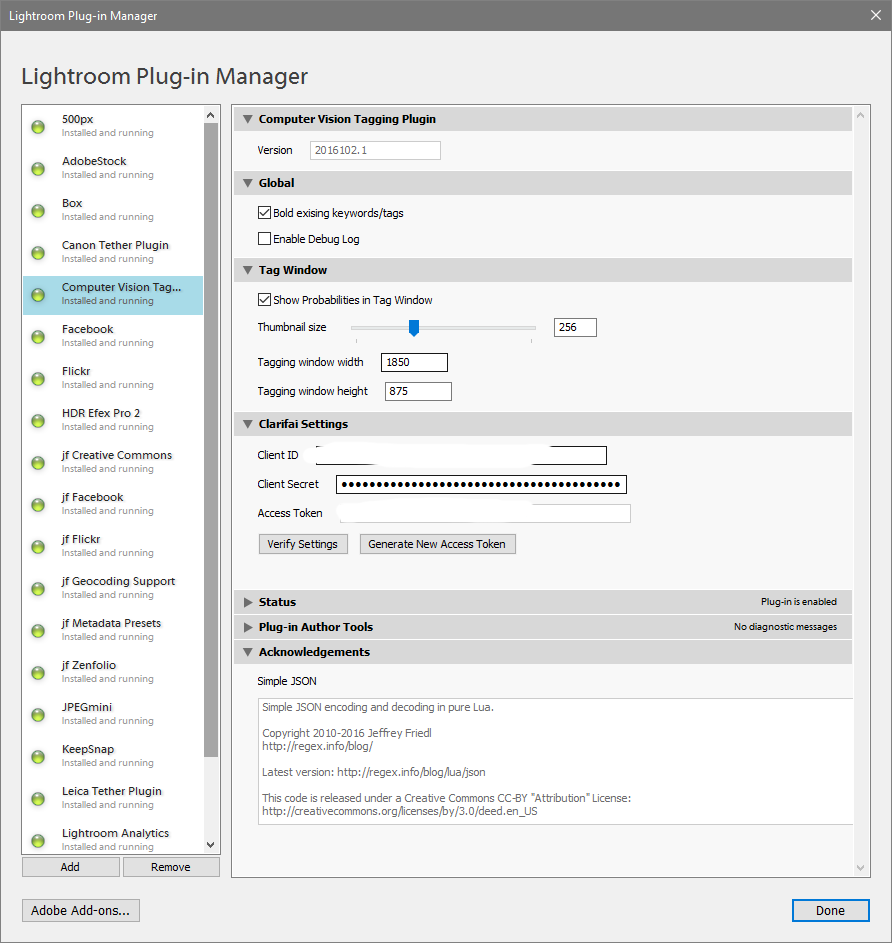
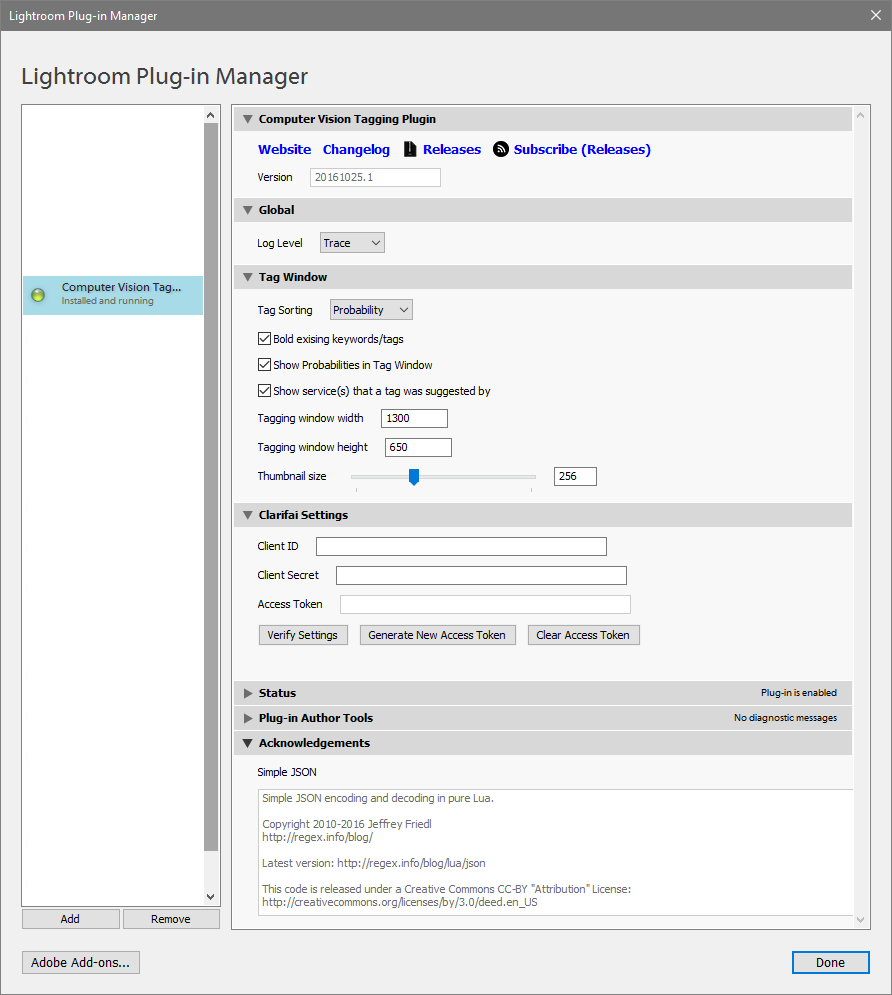
Various updates

diff --git a/project_plan.md b/project_plan.md
@@ -16,6 +16,8 @@ Please note there are not any dates listed here. The developers have day jobs an
 - [ ] Add tags to main tagging dialog
 - [ ] Add tags to auto tagging
 - [ ] Version Bump
+- [ ] Branch merge
+- [ ] Branch cleanup
 - [ ] Update Project Plan
 - [ ] Post on docs site
 
@@ -23,6 +25,8 @@ Please note there are not any dates listed here. The developers have day jobs an
 - [ ] Branch
 - [ ] Show service specific data in tagging window after tag group
 - [ ] Version Bump
+- [ ] Branch merge
+- [ ] Branch cleanup
 - [ ] Update Project Plan
 - [ ] Post on docs site
 
@@ -30,6 +34,8 @@ Please note there are not any dates listed here. The developers have day jobs an
 - [ ] Branch
 - [ ] Option to show a dialog with service specific data if auto-tagging 
 - [ ] Version Bump
+- [ ] Branch merge
+- [ ] Branch cleanup
 - [ ] Update Project Plan
 - [ ] Post on docs site
 
@@ -40,6 +46,8 @@ Please note there are not any dates listed here. The developers have day jobs an
 - [ ] Show service specific data in tagging dialog
 - [ ] Show service specific data in auto tag dialog
 - [ ] Version Bump
+- [ ] Branch merge
+- [ ] Branch cleanup
 - [ ] Update Project Plan
 - [ ] Post on docs site
 
@@ -50,11 +58,14 @@ Please note there are not any dates listed here. The developers have day jobs an
 - [ ] Show service specific data in tagging dialog
 - [ ] Show service specific data in auto tag dialog
 - [ ] Version Bump
+- [ ] Branch merge
+- [ ] Branch cleanup
 - [ ] Update Project Plan
 - [ ] Post on docs site
 
 # Phase 17 - Docs
 - [ ] Create docs for setup of Microsoft Computer Vision services (use Clarifai docs as template/model)
+- [ ] Update screenshots of application dialogs/windows/etc
 
 # Phase Fixes (ongoing)
 - [ ] Github issue tracker has more details

diff --git a/changelog.md b/changelog.md
@@ -4,6 +4,10 @@ title: Changelog
 subtitle: Changes / updates / fixes by phase
 ---
 
+# Phase 12 - Features
+- [X] Add ability to clear Clarifai access token
+- [X] Add links to website/releases/etc to preferences
+
 # Phase 11 - Feature, Misc Updates
 - [X] Branch
 - [X] Minor preference/export dialog UI cleanup
